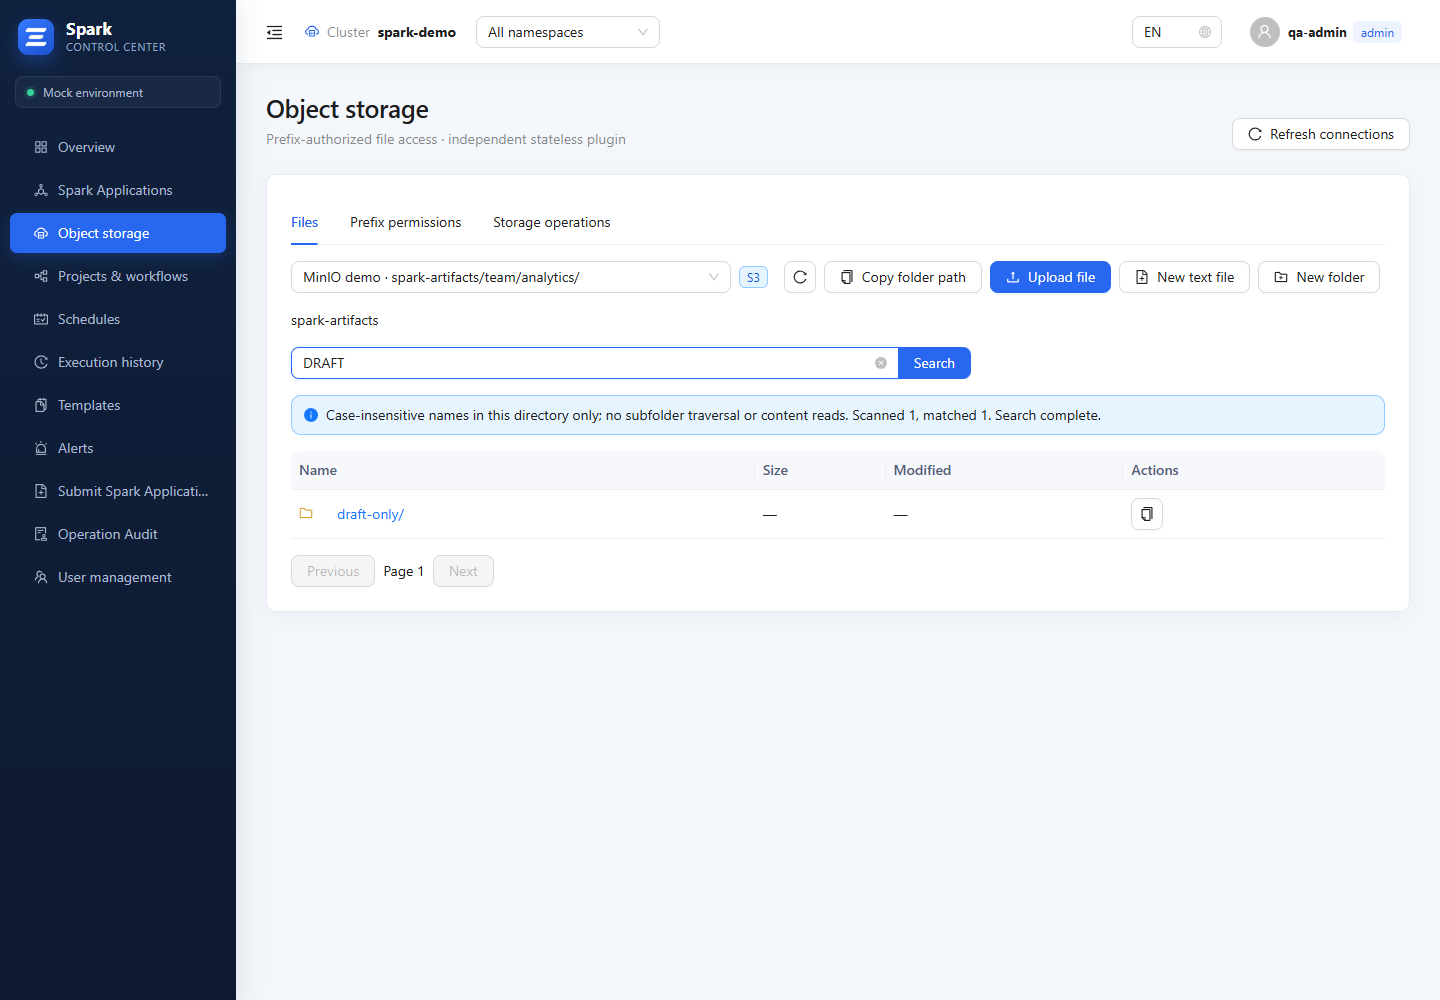
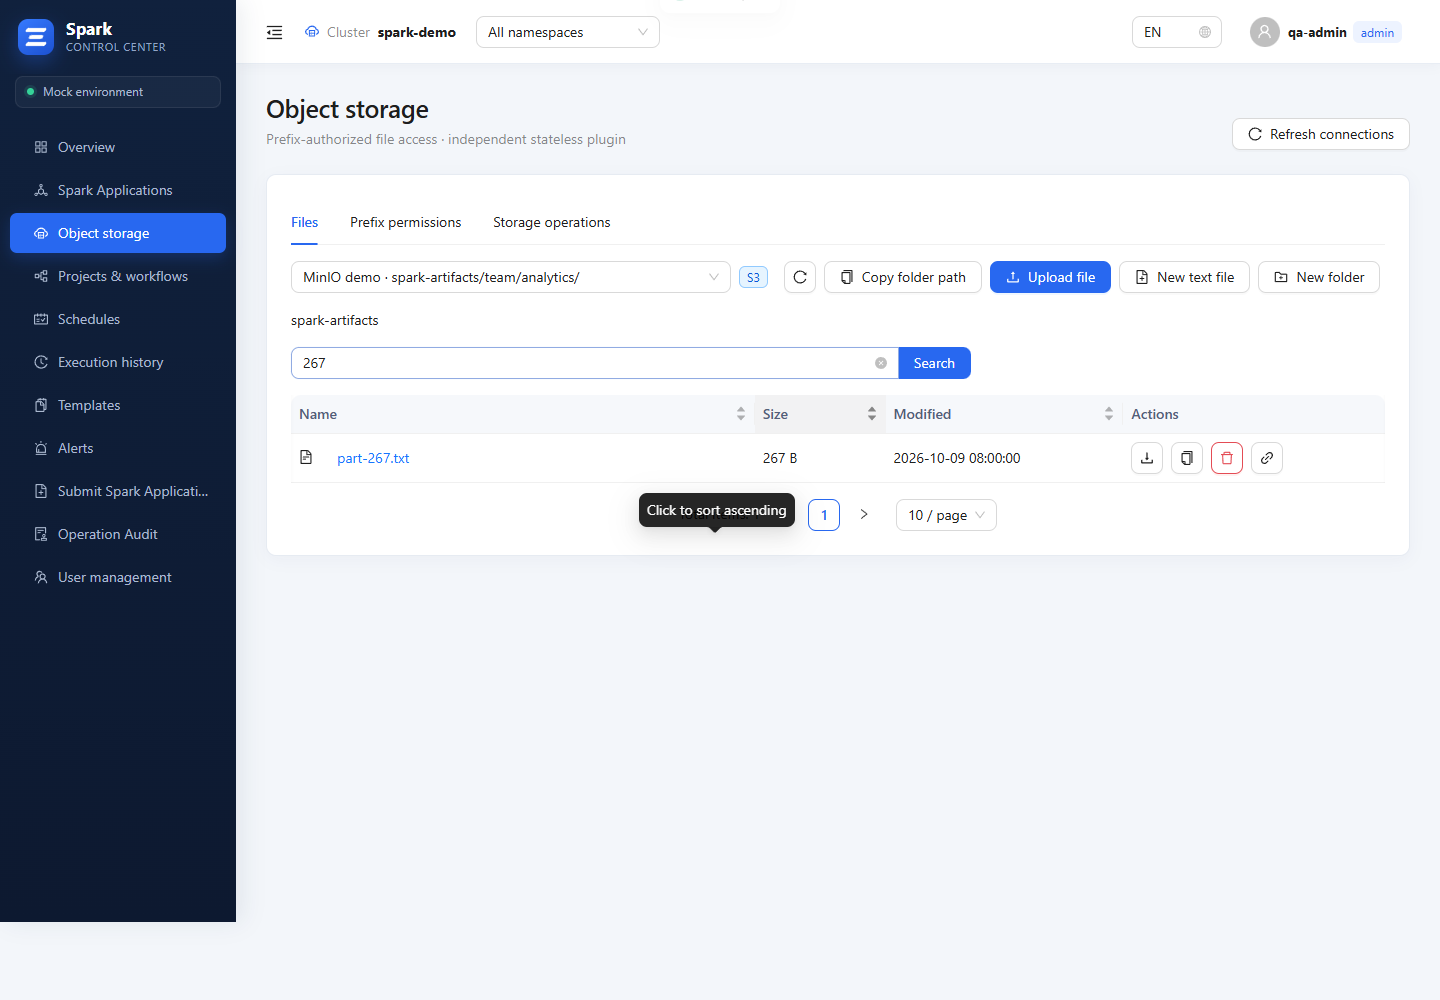
Verify deleted archive state and align cleanup permissions

diff --git a/src/pages/ApplicationDetailPage.tsx b/src/pages/ApplicationDetailPage.tsx
@@ -128,7 +128,7 @@ export function ApplicationDetailPage() {
     finally { setPreparing(undefined); }
   };
   return <>
-    <PageHeader back={{ label: t('applications'), to: '/applications' }} title={<Space wrap>{app.name}<StatusTag state={app.state} />{app.historical && <Tag color="purple">{t('historicalSnapshot')}</Tag>}</Space>} subtitle={`${app.namespace} · ${app.cluster} · ${formatDuration(app)}`} extra={<Space wrap><Button icon={<ReloadOutlined />} onClick={load}>{t('refresh')}</Button>{runtimeConfig.features.sparkUi && <Tooltip title={sparkUITooltip}><Button icon={<LinkOutlined />} disabled={!app.historical && app.state === 'RUNNING' ? !app.sparkUiAvailable : !historyAvailable} onClick={openSparkUI}>{!app.historical && app.state === 'RUNNING' ? 'Spark UI' : 'Spark History'}</Button></Tooltip>}{runtimeConfig.features.templates && hasPermission(session, 'templatesWrite') && <Button icon={<SnippetsOutlined />} onClick={() => navigate('/templates', { state: { manifest: app.yaml, namespace: app.namespace } })}>{t('save')} Template</Button>}{runtimeConfig.features.submit && canSubmit(session ?? 'viewer') && <Button icon={<BranchesOutlined />} loading={preparing === 'clone'} onClick={() => void prepare('clone')}>{t('cloneApplication')}</Button>}{runtimeConfig.features.submit && canSubmit(session ?? 'viewer') && isTerminalState(app.state) && <Button icon={<RedoOutlined />} loading={preparing === 'retry'} onClick={() => void prepare('retry')}>{t('retryApplication')}</Button>}{runtimeConfig.features.kill && isKillableState(app.state) && !app.historical && <Button danger icon={<StopOutlined />} disabled={!canKill(session ?? 'viewer')} onClick={() => setOperation('kill')}>{t('kill')}</Button>}{runtimeConfig.features.kill && (app.historical || isTerminalState(app.state)) && <Button danger icon={<DeleteOutlined />} disabled={app.historical ? session?.role !== 'admin' : !canDelete(session ?? 'viewer')} onClick={() => setOperation('delete')}>{t(app.historical ? 'purgeHistory' : 'delete')}</Button>}</Space>} />
+    <PageHeader back={{ label: t('applications'), to: '/applications' }} title={<Space wrap>{app.name}<StatusTag state={app.state} />{app.historical && <Tag color="purple">{t('historicalSnapshot')}</Tag>}</Space>} subtitle={`${app.namespace} · ${app.cluster} · ${formatDuration(app)}`} extra={<Space wrap><Button icon={<ReloadOutlined />} onClick={load}>{t('refresh')}</Button>{runtimeConfig.features.sparkUi && <Tooltip title={sparkUITooltip}><Button icon={<LinkOutlined />} disabled={!app.historical && app.state === 'RUNNING' ? !app.sparkUiAvailable : !historyAvailable} onClick={openSparkUI}>{!app.historical && app.state === 'RUNNING' ? 'Spark UI' : 'Spark History'}</Button></Tooltip>}{runtimeConfig.features.templates && hasPermission(session, 'templatesWrite') && <Button icon={<SnippetsOutlined />} onClick={() => navigate('/templates', { state: { manifest: app.yaml, namespace: app.namespace } })}>{t('save')} Template</Button>}{runtimeConfig.features.submit && canSubmit(session ?? 'viewer') && <Button icon={<BranchesOutlined />} loading={preparing === 'clone'} onClick={() => void prepare('clone')}>{t('cloneApplication')}</Button>}{runtimeConfig.features.submit && canSubmit(session ?? 'viewer') && isTerminalState(app.state) && <Button icon={<RedoOutlined />} loading={preparing === 'retry'} onClick={() => void prepare('retry')}>{t('retryApplication')}</Button>}{runtimeConfig.features.kill && isKillableState(app.state) && !app.historical && <Button danger icon={<StopOutlined />} disabled={!canKill(session ?? 'viewer')} onClick={() => setOperation('kill')}>{t('kill')}</Button>}{runtimeConfig.features.kill && (app.historical || isTerminalState(app.state)) && <Button danger icon={<DeleteOutlined />} disabled={!canDelete(session ?? 'viewer') || (app.historical && session?.role !== 'admin')} onClick={() => setOperation('delete')}>{t(app.historical ? 'purgeHistory' : 'delete')}</Button>}</Space>} />
     {actionError && <Alert className="detail-alert" type="error" showIcon closable onClose={() => setActionError('')} message={actionError} />}
     {app.errorMessage && <Alert className="detail-alert" type="error" showIcon icon={<ExclamationCircleOutlined />} message="Application failure detected" description={app.errorMessage} />}
     {!!app.diagnostics?.length && <Card className="panel-card" title={t('diagnosis')}><div className="diagnostic-list">{app.diagnostics.map((item) => <div key={item.code} className={`diagnostic-card ${item.severity}`}><Space><Tag color={item.severity === 'error' ? 'red' : 'orange'}>{item.code}</Tag><Typography.Text strong>{item.summary}</Typography.Text></Space>{item.detail && <small>{item.detail}</small>}{item.recommendation && <small><b>{t('recommendation')}:</b> {item.recommendation}</small>}</div>)}</div></Card>}

diff --git a/src/components/KillModal.tsx b/src/components/KillModal.tsx
@@ -4,13 +4,15 @@ import { useAuth } from '../auth';
 import { useI18n } from '../i18n';
 import { sparkService } from '../service';
 import type { SparkApplication } from '../types';
+import { canDelete } from '../utils';
 
 export function ApplicationOperationModal({ application, operation, open, onClose, onCompleted }: { application: SparkApplication; operation: 'kill' | 'delete'; open: boolean; onClose: () => void; onCompleted: () => void }) {
   const [reason, setReason] = useState(''); const [loading, setLoading] = useState(false);
   const { session } = useAuth(); const { t } = useI18n(); const { message } = App.useApp();
   const purgeHistory = operation === 'delete' && application.historical;
+  const purgeDisabled = purgeHistory && (session?.role !== 'admin' || !canDelete(session));
   const submit = async () => {
-    if (!session || (purgeHistory && session.role !== 'admin')) return;
+    if (!session || purgeDisabled) return;
     setLoading(true);
     try {
       if (operation === 'kill') await sparkService.killApplication(application.namespace, application.id, session.username, reason.trim() || undefined);
@@ -21,7 +23,7 @@ export function ApplicationOperationModal({ application, operation, open, onClos
     catch (error) { message.error(error instanceof Error ? error.message : 'Operation failed'); }
     finally { setLoading(false); }
   };
-  return <Modal title={t(operation === 'kill' ? 'killConfirm' : purgeHistory ? 'purgeHistoryConfirm' : 'deleteConfirm')} open={open} okText={t(operation === 'kill' ? 'confirmKill' : purgeHistory ? 'purgeHistory' : 'confirmDelete')} cancelText={t('cancel')} okButtonProps={{ danger: true, loading, disabled: purgeHistory && session?.role !== 'admin' }} onOk={submit} onCancel={onClose} destroyOnHidden>
+  return <Modal title={t(operation === 'kill' ? 'killConfirm' : purgeHistory ? 'purgeHistoryConfirm' : 'deleteConfirm')} open={open} okText={t(operation === 'kill' ? 'confirmKill' : purgeHistory ? 'purgeHistory' : 'confirmDelete')} cancelText={t('cancel')} okButtonProps={{ danger: true, loading, disabled: purgeDisabled }} onOk={submit} onCancel={onClose} destroyOnHidden>
     <div className="kill-target"><span className="danger-icon">!</span><div><Typography.Text strong>{application.name}</Typography.Text><br /><Typography.Text type="secondary">{application.namespace}</Typography.Text></div></div>
     <Typography.Paragraph type="secondary">{t(operation === 'kill' ? 'killWarning' : purgeHistory ? 'purgeHistoryWarning' : 'deleteWarning')}</Typography.Paragraph>
     <Input.TextArea value={reason} onChange={(event) => setReason(event.target.value)} placeholder={t('reason')} rows={3} maxLength={240} showCount />

diff --git a/src/pages/ApplicationsPage.tsx b/src/pages/ApplicationsPage.tsx
@@ -41,7 +41,7 @@ export function ApplicationsPage() {
     { title: t('action'), key: 'action', width: 130, fixed: 'right', render: (_, row) => <Space><Tooltip title={t('details')}><Button size="small" type="text" icon={<EyeOutlined />} onClick={() => navigate(`/applications/${encodeURIComponent(row.namespace)}/${encodeURIComponent(row.id)}`)} /></Tooltip>{runtimeConfig.features.kill && !row.historical && isKillableState(row.state) && <Button aria-label="kill" size="small" danger type="text" disabled={!canKill(session ?? 'viewer')} icon={<StopOutlined />} onClick={() => setTarget({ application: row, operation: 'kill' })} />}{runtimeConfig.features.kill && (row.historical || isTerminalState(row.state)) && (
       <Tooltip title={row.historical ? t('purgeHistory') : t('delete')}>
         <span><Button aria-label={row.historical ? t('purgeHistory') : 'delete'} size="small" danger type="text"
-          disabled={row.historical ? session?.role !== 'admin' : !canDelete(session ?? 'viewer')}
+          disabled={!canDelete(session ?? 'viewer') || (row.historical && session?.role !== 'admin')}
           icon={<DeleteOutlined />} onClick={() => setTarget({ application: row, operation: 'delete' })} /></span>
       </Tooltip>
     )}</Space> },

diff --git a/src/utils.test.ts b/src/utils.test.ts
@@ -10,9 +10,11 @@ describe('formatters and permissions', () => {
     expect(formatMemory(undefined)).toBe('—');
   });
   it('maps every application state to a color', () => {
-    expect(Object.keys(stateColor)).toHaveLength(9);
+    expect(Object.keys(stateColor)).toHaveLength(10);
     expect(stateColor.RUNNING).toBe('#12a878');
     expect(stateColor.SUBMISSION_FAILED).toBeTruthy();
+    expect(stateColor.DELETED).toBeTruthy();
+    expect(isTerminalState('DELETED')).toBe(true);
   });
   it('enforces kill permissions', () => {
     expect(canKill('viewer')).toBe(false);
